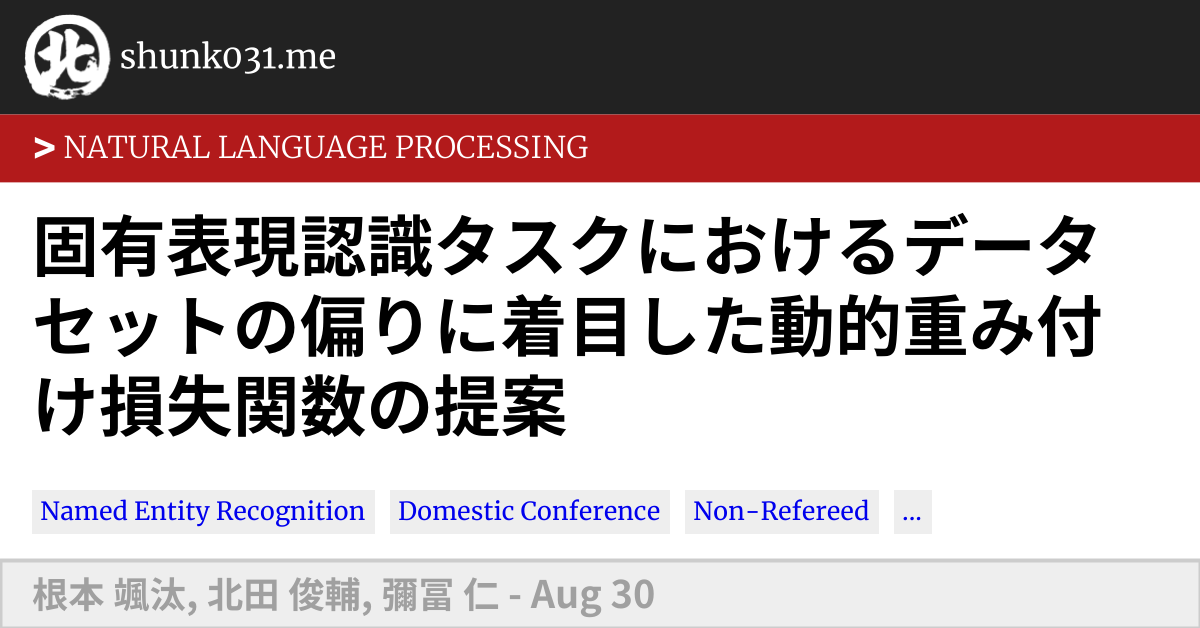
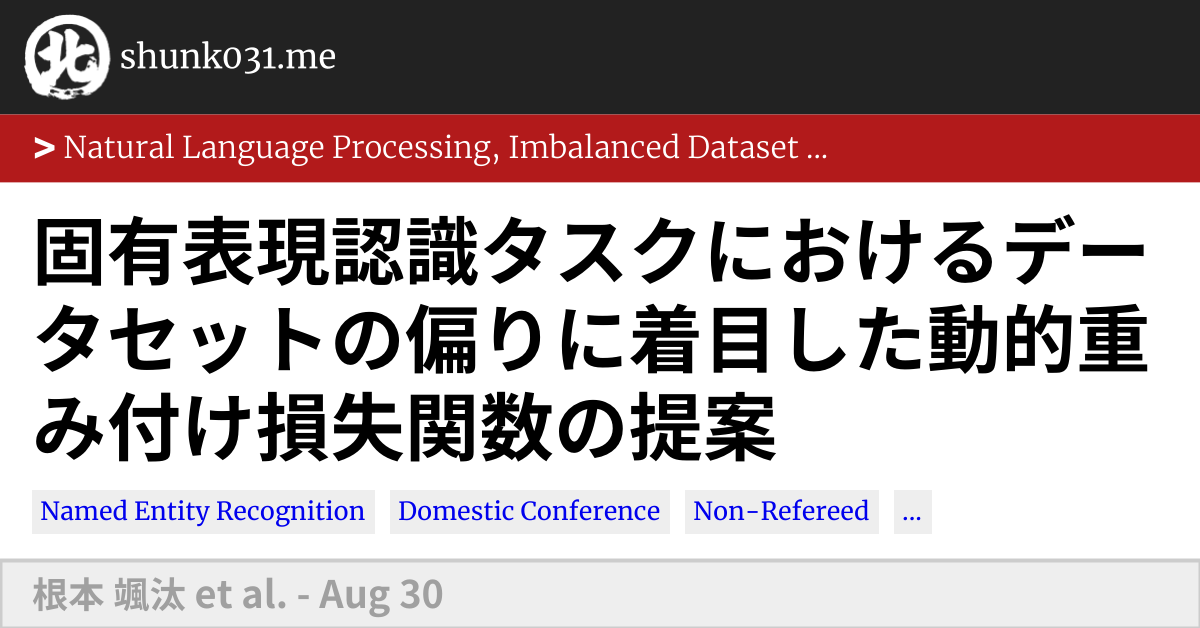
add files

Changed region(s): [[0.0308, 0.3328, 0.9558, 0.7564], [0.0617, 0.2118, 0.6783, 0.2723], [0.1542, 0.9076, 0.555, 0.9984]]

diff --git a/content/publication/nemoto2022yans/index.md b/content/publication/nemoto2022yans/index.md
@@ -3,11 +3,11 @@
 
 title: "固有表現認識タスクにおけるデータセットの偏りに着目した動的重み付け損失関数の提案"
 authors: ["根本 颯汰","北田 俊輔", "彌冨 仁"]
-date: 2022-09-02T10:10:53+09:00
+date: 2022-08-30T00:00:00+09:00
 doi: ""
 
 # Schedule page publish date (NOT publication's date).
-publishDate: 2022-09-02T10:10:53+09:00
+publishDate: 2022-08-30T10:10:53+09:00
 
 # Publication type.
 # Legend: 0 = Uncategorized; 1 = Conference paper; 2 = Journal article;
@@ -19,11 +19,14 @@ publication_types: ["0"]
 publication: "NLP 若手の会 (YANS) 第 17 回シンポジウム，2022."
 publication_short: "YANS 2022"
 
+abstract: "固有表現認識（Named Entity Recognition; NER）は自然言語で記述されたテキスト中から人名や地名、日付などの固有表現を取り出す、情報抽出タスクの一つである。本タスクを各語に対する分類問題とみなしたとき、分類すべきクラスの数は多い反面、大部分の語が「その他」に分類される、非常に不均衡なデータを元にしたタスクである。このようなデータを機械学習モデルでそのまま学習すると、本来識別が必要なサンプル数の少ないクラスの認識精度は非常に低くなってしまう。本研究では、NER タスクにおけるデータセットの不均衡性に着目した、新たな損失関数を導入する学習手法を提案する。我々の提案する損失関数は、大部分を占めるその他クラスと少数のそれ以外のクラスを区別できるように学習しつつ、少数のクラスにおいても粒度の細かい区別ができるように訓練する。複数の日本語 NER データセットを用いて提案手法の有効性を確認した。
+"
+
 # Summary. An optional shortened abstract.
 summary: "NLP 若手の会 (YANS) 第 17 回シンポジウム，2022."
 
 tags: ["Named Entity Recognition", "Domestic Conference", "Non-refereed", "YANS"]
-categories: ["Natural Language Processing", "Imbalanced dataset", "Named Entity Recognition"]
+categories: ["Natural Language Processing", "Imbalanced Dataset", "Named Entity Recognition"]
 featured: false
 
 # Custom links (optional).

diff --git a/content/publication/kitada2018yans/index.md b/content/publication/kitada2018yans/index.md
@@ -20,7 +20,8 @@ publication_types: ["9"]
 publication: "NLP 若手の会 (YANS) 第 13 回シンポジウム，2018."
 publication_short: "YANS 2018"
 
-abstract: ""
+abstract: "デジタル広告におけるクリエイティブ （広告素材） は対象となる顧客に対して効果的に情報を届ける重要な役割を担っている。これらは人手によって作成および運用されており、短期間に膨大な量が広告として消費されている。こうした現状に対し私たちは広告クリエイティブの自動生成に着手しているが、そのためには事前に良いクリエイティブとはなにかを定義する必要がある。そこで本研究では広告クリエイティブ評価のため単語レベルでの評価手法の検討を行う。具体的にはクリエイティブテキストにおいてクリックに寄与する単語を抽出するとともに、品質を推定するモデルを構築することで、広告クリエイティブ自動生成への足がかりとする。
+"
 
 # Summary. An optional shortened abstract.
 summary: "NLP 若手の会 (YANS) 第 13 回シンポジウム，2018."
@@ -52,7 +53,7 @@ url_video:
 image:
   caption: ""
   focal_point: ""
-  preview_only: false
+  preview_only: true
 
 # Associated Projects (optional).
 #   Associate this publication with one or more of your projects.

diff --git a/content/publication/kitada2017yans/index.md b/content/publication/kitada2017yans/index.md
@@ -19,7 +19,8 @@ publication_types: ["9"]
 publication: "NLP 若手の会 (YANS) 第 12 回シンポジウム，2017."
 publication_short: "YANS 2017"
 
-abstract: ""
+abstract: "文書を分かち書きせず文字単位で扱う Character-level Convolutional Neural Networks(CLCNN) は，その表現能力ゆえに学習データに対して過学習を引き起こしてしまう． 本研究では，文字画像による Character-level Embeddig を CLCNN で学習させる際に，入力文字表現の一部をランダムにワイルドカードとして入力させる「Wildcard Training」についてより詳細に検討し，過学習を抑制する手法を模索する．
+"
 
 # Summary. An optional shortened abstract.
 summary: "NLP 若手の会 (YANS) 第 12 回シンポジウム，2017."
@@ -51,7 +52,7 @@ url_video:
 image:
   caption: ""
   focal_point: ""
-  preview_only: false
+  preview_only: true
 
 # Associated Projects (optional).
 #   Associate this publication with one or more of your projects.

diff --git a/content/publication/kitada2022yans/index.md b/content/publication/kitada2022yans/index.md
@@ -4,11 +4,11 @@
 title: "Document AI タスクに向けた大規模事前学習済みモデルを活用した Layout-aware Prompting"
 authors: ["北田 俊輔", "井上 直人", "大谷 まゆ", "彌冨 仁"]
 author_notes: ["株式会社 CyberAgent でのリサーチインターンの成果"]
-date: 2022-09-02T10:10:47+09:00
+date: 2022-08-29T00:00:00+09:00
 doi: ""
 
 # Schedule page publish date (NOT publication's date).
-publishDate: 2022-09-02T10:10:47+09:00
+publishDate: 2022-08-29T00:00:00+09:00
 
 # Publication type.
 # Legend: 0 = Uncategorized; 1 = Conference paper; 2 = Journal article;
@@ -52,7 +52,7 @@ url_video:
 image:
   caption: ""
   focal_point: ""
-  preview_only: false
+  preview_only: true
 
 # Associated Projects (optional).
 #   Associate this publication with one or more of your projects.

diff --git a/content/publication/aoki2020nlp/index.md b/content/publication/aoki2020nlp/index.md
@@ -55,7 +55,7 @@ url_video:
 image:
   caption: ""
   focal_point: ""
-  preview_only: false
+  preview_only: true
 
 # Associated Projects (optional).
 #   Associate this publication with one or more of your projects.

diff --git a/content/publication/daif2019yans/index.md b/content/publication/daif2019yans/index.md
@@ -51,7 +51,7 @@ url_video:
 image:
   caption: ""
   focal_point: ""
-  preview_only: false
+  preview_only: true
 
 # Associated Projects (optional).
 #   Associate this publication with one or more of your projects.

diff --git a/content/publication/daif2020nlp/index.md b/content/publication/daif2020nlp/index.md
@@ -51,7 +51,7 @@ url_video:
 image:
   caption: ""
   focal_point: ""
-  preview_only: false
+  preview_only: true
 
 # Associated Projects (optional).
 #   Associate this publication with one or more of your projects.

diff --git a/content/publication/kitada2018nlp/index.md b/content/publication/kitada2018nlp/index.md
@@ -51,7 +51,7 @@ url_video:
 image:
   caption: ""
   focal_point: ""
-  preview_only: false
+  preview_only: true
 
 # Associated Projects (optional).
 #   Associate this publication with one or more of your projects.

diff --git a/content/publication/kitada2019ipsj/index.md b/content/publication/kitada2019ipsj/index.md
@@ -51,7 +51,7 @@ url_video:
 image:
   caption: ""
   focal_point: ""
-  preview_only: false
+  preview_only: true
 
 # Associated Projects (optional).
 #   Associate this publication with one or more of your projects.

diff --git a/content/publication/kitada2019nlp/index.md b/content/publication/kitada2019nlp/index.md
@@ -52,7 +52,7 @@ url_video:
 image:
   caption: ""
   focal_point: ""
-  preview_only: false
+  preview_only: true
 
 # Associated Projects (optional).
 #   Associate this publication with one or more of your projects.

diff --git a/content/publication/kitada2019yans/index.md b/content/publication/kitada2019yans/index.md
@@ -51,7 +51,7 @@ url_video:
 image:
   caption: ""
   focal_point: ""
-  preview_only: false
+  preview_only: true
 
 # Associated Projects (optional).
 #   Associate this publication with one or more of your projects.

diff --git a/content/publication/kitada2020jsai/index.md b/content/publication/kitada2020jsai/index.md
@@ -52,7 +52,7 @@ url_video:
 image:
   caption: ""
   focal_point: ""
-  preview_only: false
+  preview_only: true
 
 # Associated Projects (optional).
 #   Associate this publication with one or more of your projects.
